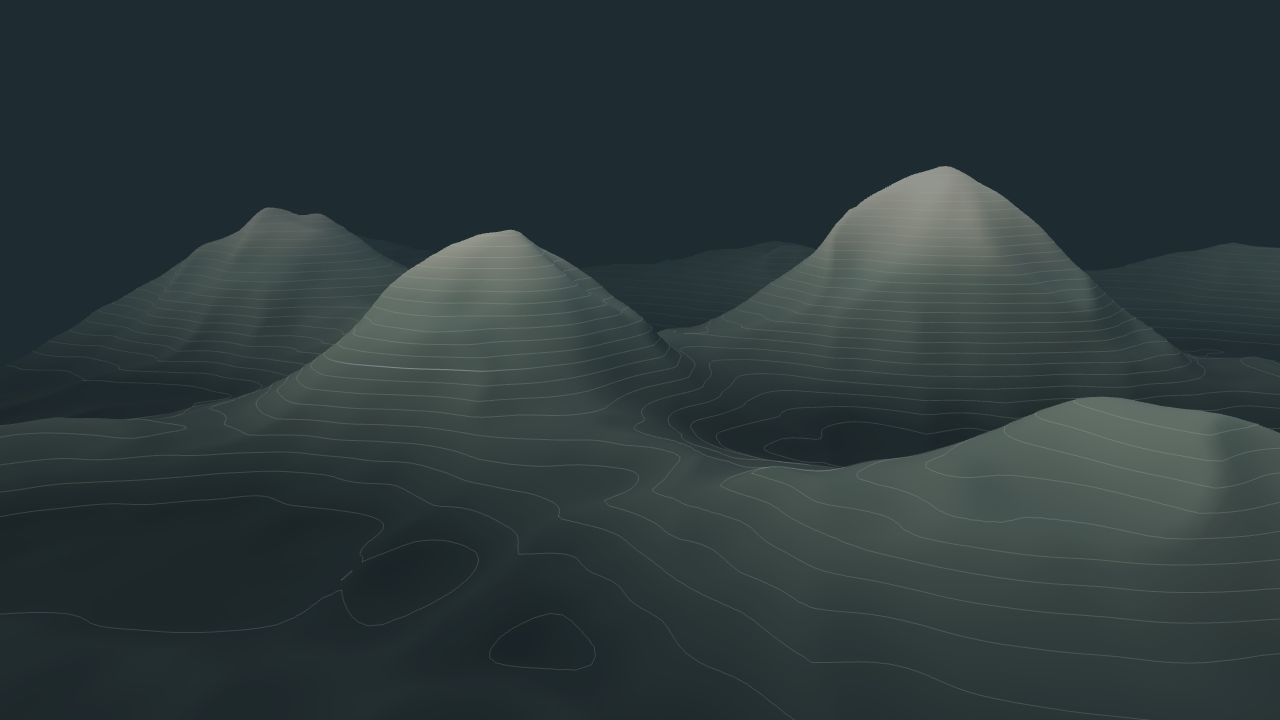
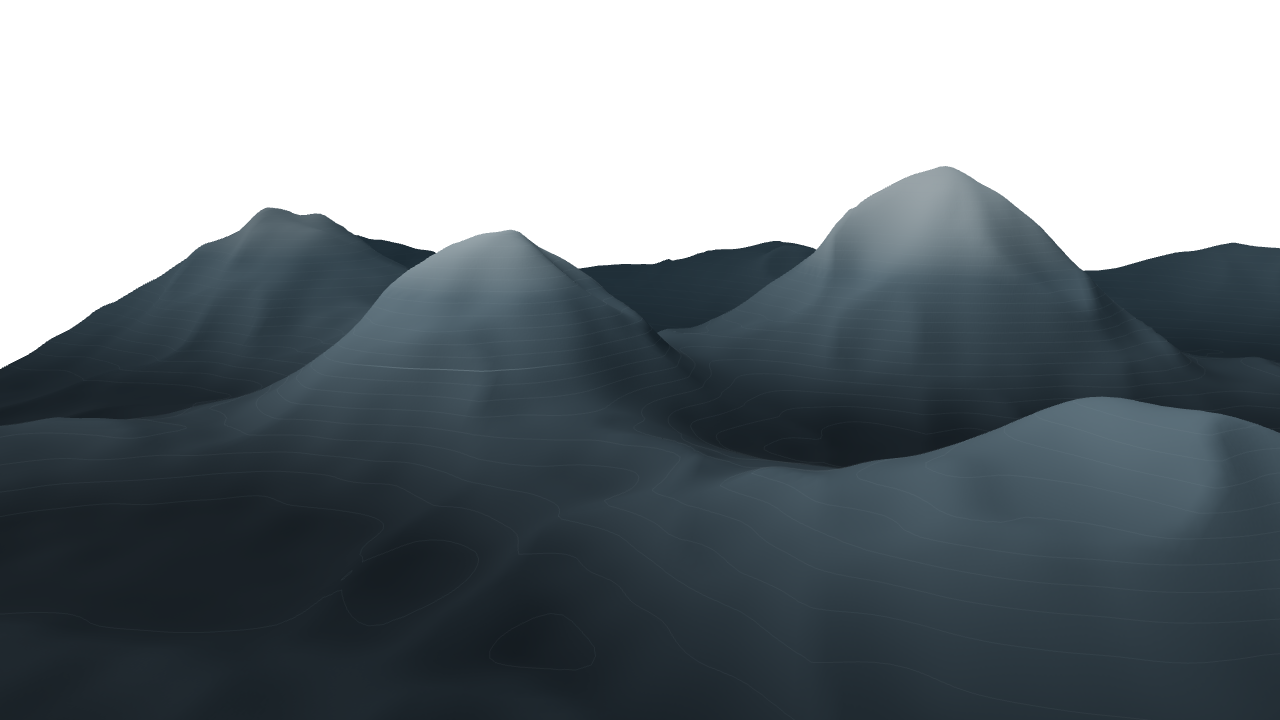
feat: add slate terrain lighting and gentle onboarding panning

diff --git a/src/app/components/onboarding/terrain/onboarding-terrain.renderer.ts b/src/app/components/onboarding/terrain/onboarding-terrain.renderer.ts
@@ -36,10 +36,10 @@ export function createTerrainRenderer(
     const hemisphere = new THREE.HemisphereLight();
     scene.add(hemisphere);
     const key = new THREE.DirectionalLight();
-    key.position.set(-15, 18, 8);
+    key.position.set(-18, 18, 8);
     scene.add(key);
     const fill = new THREE.DirectionalLight();
-    fill.position.set(14, 6, -14);
+    fill.position.set(14, 8, -10);
     scene.add(fill);
     const terrain = new THREE.Group();
     scene.add(terrain);
@@ -47,16 +47,34 @@ export function createTerrainRenderer(
     const geo = new THREE.BufferGeometry();
     resources.push(geo);
     geo.setAttribute('position', new THREE.BufferAttribute(model.vertices, 3));
+    geo.setAttribute('uv', new THREE.BufferAttribute(model.uvs, 2));
     geo.setAttribute(
       'color',
       new THREE.BufferAttribute(new Float32Array(model.vertices.length), 3)
     );
     geo.setIndex(new THREE.BufferAttribute(model.indices, 1));
     geo.computeVertexNormals();
+    // Small deterministic bump texture adds stone grain without changing the silhouette.
+    const grain = new Uint8Array(256 * 256);
+    let seed = 7621;
+    for (let i = 0; i < grain.length; i++) {
+      seed = (Math.imul(seed, 1664525) + 1013904223) >>> 0;
+      grain[i] = 96 + (seed >>> 26);
+    }
+    const surface = new THREE.DataTexture(grain, 256, 256, THREE.RedFormat);
+    resources.push(surface);
+    surface.wrapS = surface.wrapT = THREE.RepeatWrapping;
+    surface.repeat.set(6, 9);
+    surface.magFilter = THREE.LinearFilter;
+    surface.minFilter = THREE.LinearMipmapLinearFilter;
+    surface.generateMipmaps = true;
+    surface.needsUpdate = true;
     const material = new THREE.MeshStandardMaterial({
       vertexColors: true,
-      metalness: 0,
-      roughness: 0.98
+      metalness: 0.04,
+      roughness: 0.88,
+      bumpMap: surface,
+      bumpScale: 0.12
     });
     resources.push(material);
     terrain.add(new THREE.Mesh(geo, material));
@@ -129,6 +147,10 @@ export function createTerrainRenderer(
       disposed = false,
       rendered = false;
     let reduced = options.reducedMotion;
+    // A single, bounded camera glide makes the depth visible without an idle loop.
+    const entryDuration = 4500;
+    let entryTime = reduced ? entryDuration : 0;
+    let lastTime: number | undefined;
     let pointerX = 0,
       pointerY = 0,
       currentX = 0,
@@ -137,27 +159,37 @@ export function createTerrainRenderer(
     const cancel = () => {
       cancelAnimationFrame(frame);
       frame = 0;
+      lastTime = undefined;
     };
     function schedule() {
       if (!frame && !disposed && visible && !document.hidden)
         frame = requestAnimationFrame(draw);
     }
-    function draw() {
+    function draw(time: number) {
       frame = 0;
       if (disposed || !visible || document.hidden) return;
+      const dt = lastTime === undefined ? 0 : Math.max(0, time - lastTime);
+      lastTime = time;
+      if (!reduced && entryTime < entryDuration) {
+        entryTime = Math.min(entryDuration, entryTime + dt);
+        dirty = true;
+      }
       const dx = pointerX - currentX,
         dy = pointerY - currentY;
       const settling = Math.abs(dx) + Math.abs(dy) > 0.0005;
       if (settling) {
-        currentX += dx * 0.045;
-        currentY += dy * 0.045;
+        const ease = 1 - Math.exp(-Math.min(dt, 50) * 0.006);
+        currentX += dx * ease;
+        currentY += dy * ease;
         dirty = true;
       }
       if (dirty) {
+        const progress = entryTime / entryDuration;
+        const entryOffset = 1 - progress * progress * (3 - 2 * progress);
         camera.position.set(
-          baseCamera.x + currentX,
-          baseCamera.y + currentY,
-          baseCamera.z
+          baseCamera.x + currentX - entryOffset * 1.35,
+          baseCamera.y + currentY + entryOffset * 0.14,
+          baseCamera.z + entryOffset * 0.22
         );
         camera.lookAt(target);
         try {
@@ -172,8 +204,8 @@ export function createTerrainRenderer(
           options.onReady();
         }
       }
-      // The scenery rests between pointer interactions; there is no idle animation.
-      if (settling) schedule();
+      // After the entry glide, the scenery rests between pointer interactions.
+      if ((!reduced && entryTime < entryDuration) || settling) schedule();
     }
     function resize() {
       if (disposed) return;
@@ -191,8 +223,8 @@ export function createTerrainRenderer(
       // These colors belong to the illustration; UI foregrounds and seams use Material tokens.
       const light = !dark,
         palette = light
-          ? ['#9baea7', '#bec6b7', '#e0dfcf']
-          : ['#26363e', '#697776', '#b6b7ad'];
+          ? ['#98a8b1', '#b9c4ca', '#dde4e8']
+          : ['#242c32', '#65737b', '#bdc8cc'];
       const low = new THREE.Color(palette[0]),
         mid = new THREE.Color(palette[1]),
         high = new THREE.Color(palette[2]);
@@ -208,19 +240,19 @@ export function createTerrainRenderer(
         attribute.setXYZ(i, color.r, color.g, color.b);
       }
       attribute.needsUpdate = true;
-      fog.color.set(light ? 0xedf1e9 : 0x223239);
-      hemisphere.color.set(light ? 0xf5f8ef : 0xc6d4dc);
-      hemisphere.groundColor.set(light ? 0xa8b8ae : 0x18232b);
-      hemisphere.intensity = light ? 1.7 : 1.65;
-      key.color.set(light ? 0xfff4df : 0xffefd8);
-      key.intensity = light ? 1.9 : 2.5;
-      fill.color.set(light ? 0xc1d4de : 0xa3b7c3);
-      fill.intensity = light ? 0.75 : 0.65;
-      contourMaterial.color.set(light ? 0x6a8179 : 0xd1d1ba);
-      contourMaterial.opacity = light ? 0.23 : 0.19;
-      profileMaterial.uniforms.accent.value.set(light ? 0x627f78 : 0x92b2bc);
-      profileMaterial.uniforms.strength.value = light ? 0.48 : 0.52;
-      renderer.toneMappingExposure = light ? 1.06 : 1.02;
+      fog.color.set(light ? 0xecf1f5 : 0x1a2932);
+      hemisphere.color.set(light ? 0xf2f6fa : 0xd4dde2);
+      hemisphere.groundColor.set(light ? 0xa3b2be : 0x182128);
+      hemisphere.intensity = light ? 1.5 : 1.2;
+      key.color.set(light ? 0xeef6fc : 0xe6ecee);
+      key.intensity = light ? 2.2 : 2.8;
+      fill.color.set(light ? 0xc9d6df : 0x91a4af);
+      fill.intensity = light ? 0.6 : 0.45;
+      contourMaterial.color.set(light ? 0x778e9a : 0x93aab7);
+      contourMaterial.opacity = light ? 0.09 : 0.06;
+      profileMaterial.uniforms.accent.value.set(light ? 0x6a899b : 0x9ec3d4);
+      profileMaterial.uniforms.strength.value = light ? 0.18 : 0.22;
+      renderer.toneMappingExposure = light ? 1.03 : 1.0;
       dirty = true;
       schedule();
     }
@@ -228,6 +260,7 @@ export function createTerrainRenderer(
       if (disposed) return;
       reduced = reduce;
       if (reduced) {
+        entryTime = entryDuration;
         pointerX = pointerY = currentX = currentY = 0;
         dirty = true;
       }
@@ -237,8 +270,8 @@ export function createTerrainRenderer(
       if (reduced || event.pointerType === 'touch') return;
       const b = stage.getBoundingClientRect();
       if (!b.width || !b.height) return;
-      pointerX = ((event.clientX - b.left) / b.width - 0.5) * 0.32;
-      pointerY = ((event.clientY - b.top) / b.height - 0.5) * 0.16;
+      pointerX = ((event.clientX - b.left) / b.width - 0.5) * 1.4;
+      pointerY = ((event.clientY - b.top) / b.height - 0.5) * 0.5;
       schedule();
     };
     const leave = () => {

diff --git a/src/app/components/onboarding/terrain/onboarding-terrain.renderer.spec.ts b/src/app/components/onboarding/terrain/onboarding-terrain.renderer.spec.ts
@@ -29,6 +29,7 @@ describe('onboarding terrain renderer lifecycle', () => {
   let intersect: IntersectionObserverCallback;
   let hidden: boolean;
   let nextFrame: number;
+  let frameTime: number;
   const disconnectResize = vi.fn(),
     disconnectIntersection = vi.fn();
   let options: TerrainOptions;
@@ -38,6 +39,7 @@ describe('onboarding terrain renderer lifecycle', () => {
     frames = new Map();
     hidden = false;
     nextFrame = 0;
+    frameTime = 0;
     stage = document.createElement('div');
     canvas = document.createElement('canvas');
     stage.append(canvas);
@@ -92,7 +94,8 @@ describe('onboarding terrain renderer lifecycle', () => {
     controllers.push(controller);
     return controller;
   }
-  function frame(time = 16) {
+  function frame(time = frameTime + 1000 / 60) {
+    frameTime = time;
     const callbacks = [...frames.values()];
     frames.clear();
     callbacks.forEach((callback) => callback(time));
@@ -148,6 +151,7 @@ describe('onboarding terrain renderer lifecycle', () => {
     create();
     frame();
     const camera = graphics.render.mock.lastCall![1];
+    for (let i = 0; i < 300; i++) frame();
     const initial = camera.position.clone();
     expect(frames.size).toBe(0);
     move();
@@ -170,6 +174,7 @@ describe('onboarding terrain renderer lifecycle', () => {
     const controller = create();
     frame();
     const camera = graphics.render.mock.lastCall![1];
+    for (let i = 0; i < 300; i++) frame();
     const initial = camera.position.clone();
     move('touch');
     expect(frames.size).toBe(0);
@@ -181,6 +186,59 @@ describe('onboarding terrain renderer lifecycle', () => {
     expect(camera.position.equals(initial)).toBe(true);
     expect(frames.size).toBe(0);
     move();
+    expect(frames.size).toBe(0);
+  });
+
+  it('glides the camera once, settles within five seconds and releases its frame loop', () => {
+    options.reducedMotion = false;
+    create();
+    frame();
+    const camera = graphics.render.mock.lastCall![1];
+    const start = camera.position.clone();
+    frame(frameTime + 2200);
+    const middle = camera.position.clone();
+    expect(middle.x).toBeGreaterThan(start.x);
+    expect(frames.size).toBe(1);
+    frame(frameTime + 2300);
+    expect(camera.position.x).toBeGreaterThan(middle.x);
+    expect(frames.size).toBe(0);
+    expect(options.onReady).toHaveBeenCalledTimes(1);
+  });
+
+  it('pauses the entry glide offscreen and in hidden tabs without a jump on return', () => {
+    options.reducedMotion = false;
+    create();
+    frame();
+    frame(frameTime + 1000);
+    const camera = graphics.render.mock.lastCall![1];
+    const before = camera.position.clone();
+    hidden = true;
+    document.dispatchEvent(new Event('visibilitychange'));
+    expect(frames.size).toBe(0);
+    hidden = false;
+    document.dispatchEvent(new Event('visibilitychange'));
+    frame(frameTime + 10000);
+    expect(camera.position.equals(before)).toBe(true);
+    intersection(false);
+    expect(frames.size).toBe(0);
+    intersection(true);
+    frame(frameTime + 10000);
+    expect(camera.position.equals(before)).toBe(true);
+    frame();
+    expect(camera.position.x).toBeGreaterThan(before.x);
+  });
+
+  it('cancels the entry glide when reduced motion is enabled and does not replay it', () => {
+    options.reducedMotion = false;
+    const controller = create();
+    frame();
+    controller.setReducedMotion(true);
+    frame();
+    const settled = graphics.render.mock.lastCall![1].position.clone();
+    expect(frames.size).toBe(0);
+    controller.setReducedMotion(false);
+    frame();
+    expect(graphics.render.mock.lastCall![1].position.equals(settled)).toBe(true);
     expect(frames.size).toBe(0);
   });
 

diff --git a/src/app/components/onboarding/terrain/onboarding-terrain.geometry.ts b/src/app/components/onboarding/terrain/onboarding-terrain.geometry.ts
@@ -93,12 +93,14 @@ export function createTerrainGeometry() {
   const nx = 240,
     nz = 280,
     vertices: number[] = [],
+    uvs: number[] = [],
     indices: number[] = [];
   for (let j = 0; j <= nz; j++)
     for (let i = 0; i <= nx; i++) {
       const x = -35 + (i / nx) * 70,
         z = -73 + (j / nz) * 99;
       vertices.push(x, height(x, z), z);
+      uvs.push(i / nx, j / nz);
     }
   for (let j = 0; j < nz; j++)
     for (let i = 0; i < nx; i++) {
@@ -133,8 +135,8 @@ export function createTerrainGeometry() {
       }
     }
   }
-  // Join an existing terrain contour. Only a short, feathered highlight travels
-  // along it; no separate cross-section cuts across the mountain's contours.
+  // Join an existing terrain contour. A short, feathered highlight sits
+  // on it; no separate cross-section cuts across the mountain's contours.
   const nodes = new Map<string, { p: number[]; neighbors: Set<string> }>();
   const pointKey = (p: number[]) =>
     `${Math.round(p[0] * 1e5)},${Math.round(p[2] * 1e5)}`;
@@ -192,6 +194,7 @@ export function createTerrainGeometry() {
   const startProgress = distances[closest] / total;
   return {
     vertices: new Float32Array(vertices),
+    uvs: new Float32Array(uvs),
     indices: new Uint32Array(indices),
     contours: new Float32Array(contourVertices),
     highlight: new Float32Array(

diff --git a/src/app/components/onboarding/terrain/onboarding-terrain.geometry.spec.ts b/src/app/components/onboarding/terrain/onboarding-terrain.geometry.spec.ts
@@ -7,6 +7,8 @@ describe('onboarding terrain geometry', () => {
   it('creates a finite, indexed landscape and contours', () => {
     expect(geometry.vertices.length).toBeGreaterThan(100_000);
     expect(geometry.vertices.every(Number.isFinite)).toBe(true);
+    expect(geometry.uvs.length).toBe(geometry.vertices.length / 3 * 2);
+    expect(geometry.uvs.every(value => Number.isFinite(value) && value >= 0 && value <= 1)).toBe(true);
     expect(geometry.contours.every(Number.isFinite)).toBe(true);
     expect(
       geometry.indices.every((index) => index < geometry.vertices.length / 3)

diff --git a/src/app/components/onboarding/terrain/onboarding-terrain.component.scss b/src/app/components/onboarding/terrain/onboarding-terrain.component.scss
@@ -2,8 +2,8 @@
   display: block;
   position: absolute;
   inset: 0;
-  --terrain-top-fade-start: 24%;
-  --terrain-top-fade-end: 65%;
+  --terrain-top-fade-start: 12%;
+  --terrain-top-fade-end: 40%;
   --terrain-bottom-fade: 24%;
   --terrain-leading-fade: 0%;
 }

diff --git a/docs/frontend-ui.md b/docs/frontend-ui.md
@@ -79,11 +79,13 @@ ECharts remains the product-chart renderer. This decorative WebGL exception need
 occlusion, with no quantitative axes, tooltips or input data contract.
 
 Light and dark scenes follow `AppThemeService`. Material tokens control text and the blend into the card;
-the terrain itself has separate light/dark illustration palettes. A short feathered highlight marks a
-connected terrain contour. The landscape is still at rest, with gentle pointer parallax and no playback
-control or idle animation loop. Touch input and reduced-motion preferences disable parallax; enabling
-reduced motion also resets the camera. Rendering runs only for initial display, theme/size changes and
-pointer settling, and suspends offscreen and in hidden tabs. Destroying the view releases frames, GPU
+the terrain itself uses slate/silver illustration palettes, cool ridge lighting and a small mipmapped
+procedural bump texture. Faint contours and a short feathered highlight retain the data-terrain detail.
+A single 4.5-second camera glide introduces depth, then the landscape rests with gentle pointer panning.
+There is no playback control or repeating idle loop. Touch input disables pointer panning; reduced-motion
+preferences disable both the entry glide and panning. Enabling reduced motion resets the camera and ends
+the entry glide without replaying it. Rendering runs for the initial glide, theme/size changes and pointer
+settling, and suspends offscreen and in hidden tabs without advancing the glide while hidden. Destroying the view releases frames, GPU
 resources, listeners and observers, and a late module response cannot initialize a destroyed view.
 Static light/dark PNG renders of the approved native terrain cover loading, WebGL failure and context
 loss. Onboarding stays usable in all cases.
